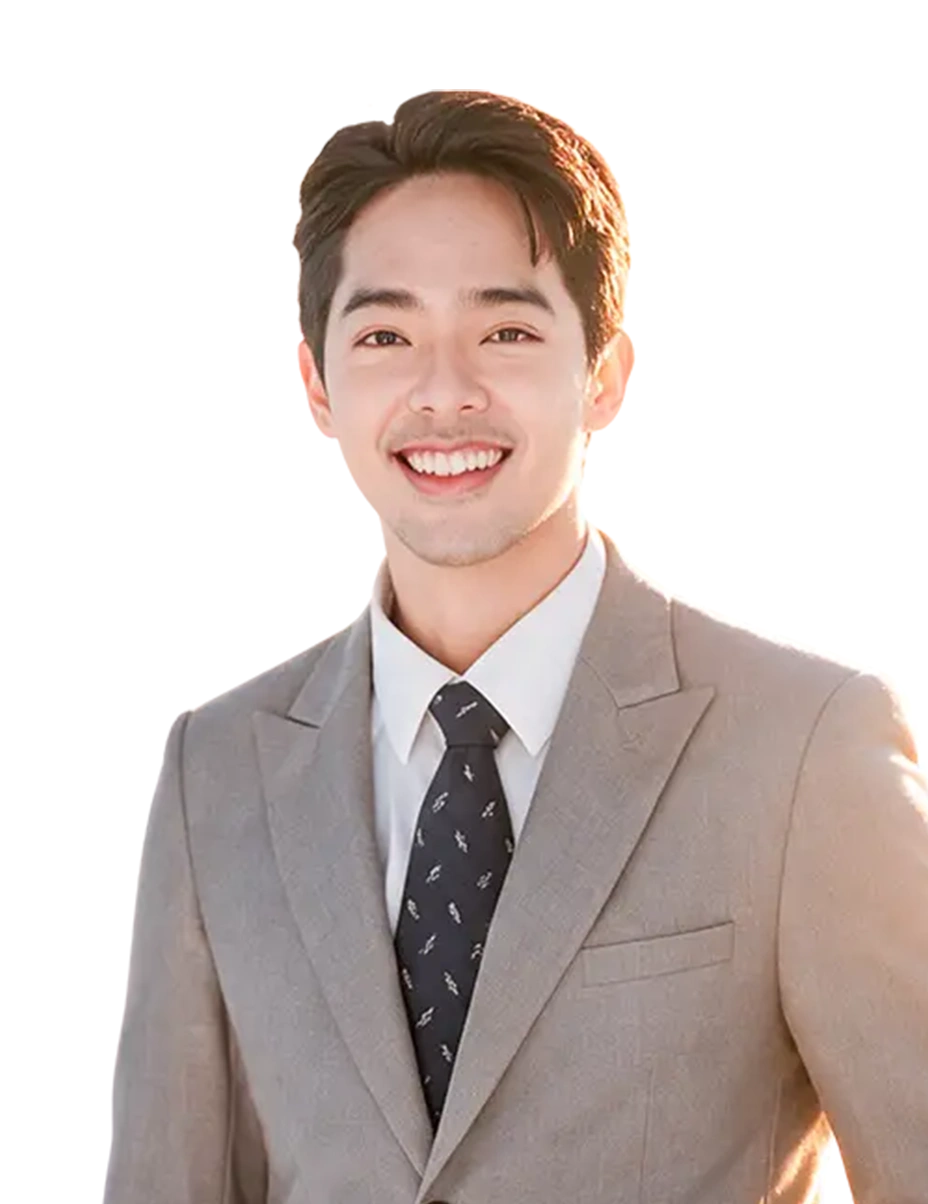
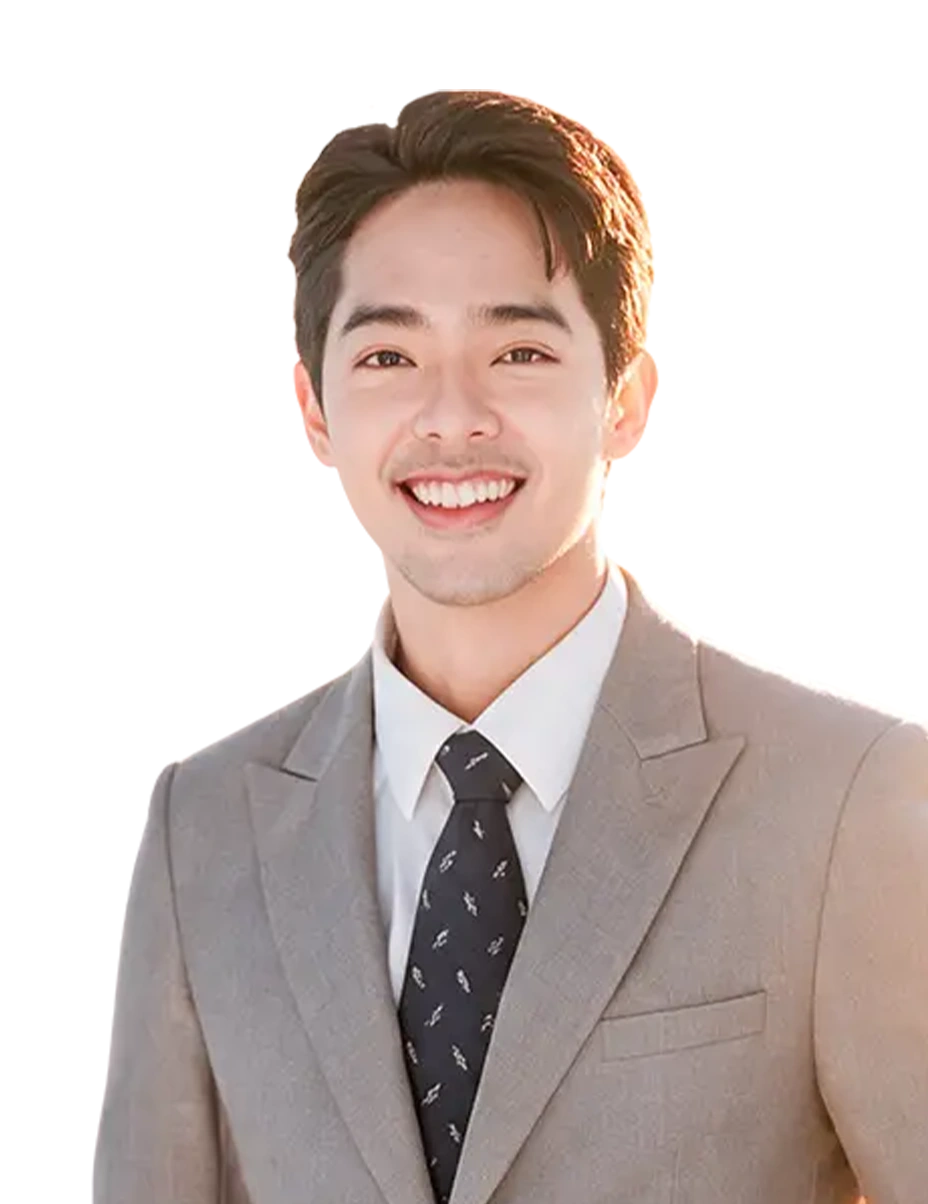
Master Class ticket labels use session names; ticket buttons wrap
- Master Class options: dates without "วันที่", R.R.R in capitals; buy
  button reads "ซื้อบัตร RADIANCE RIFT RUMBLE (R.R.R)" / "ซื้อบัตร VALUE
  MEETS MOMENTUM" once chosen
- Ticket buttons wrap to a second line instead of clipping long labels
- Updated 3D floor plan (2000x1456), hero speaker, og-image and an MC
  portrait; cache bust floor-plan-01 v2, hero-speaker v8, og-image v4

diff --git a/index.html b/index.html
@@ -20,7 +20,7 @@
     <meta property="og:description" content="BetterTrade 2026: New World New Playbook งานสัมมนาลงทุน 2 วันเต็ม 31 ต.ค. - 1 พ.ย. 2569 ณ สามย่านมิตรทาวน์ ฮอลล์ ชั้น 5 บัตรเริ่ม 150 บาท รวมทุกสินทรัพย์ หุ้น ทอง คริปโต">
     <meta property="og:url" content="https://www.efin.finance/events/better-trade/better-trade2026">
     <meta property="og:image:type" content="image/webp">
-    <meta property="og:image" content="./images/og-image.webp?v=3">
+    <meta property="og:image" content="./images/og-image.webp?v=4">
     <meta property="og:image:width" content="1200">
     <meta property="og:image:height" content="630">
     <meta property="og:image:alt" content="BetterTrade 2026: New World New Playbook | 31 ต.ค. - 1 พ.ย. 2569 | Samyan Mitrtown Hall">
@@ -28,7 +28,7 @@
     <meta name="twitter:card" content="summary_large_image">
     <meta name="twitter:title" content="BetterTrade 2026: New World New Playbook | 31 ต.ค. - 1 พ.ย. 2569 | Samyan Mitrtown Hall">
     <meta name="twitter:description" content="BetterTrade 2026: New World New Playbook งานสัมมนาลงทุน 2 วันเต็ม 31 ต.ค. - 1 พ.ย. 2569 ณ สามย่านมิตรทาวน์ ฮอลล์ ชั้น 5 บัตรเริ่ม 150 บาท รวมทุกสินทรัพย์ หุ้น ทอง คริปโต">
-    <meta name="twitter:image" content="./images/og-image.webp?v=3">
+    <meta name="twitter:image" content="./images/og-image.webp?v=4">
 
     <script type="application/ld+json">
     {
@@ -36,7 +36,7 @@
         "@type": "Event",
         "name": "BetterTrade 2026: New World New Playbook | 31 ต.ค. - 1 พ.ย. 2569 | Samyan Mitrtown Hall",
         "description": "BetterTrade 2026: New World New Playbook งานสัมมนาลงทุน 2 วันเต็ม 31 ต.ค. - 1 พ.ย. 2569 ณ สามย่านมิตรทาวน์ ฮอลล์ ชั้น 5 บัตรเริ่ม 150 บาท รวมทุกสินทรัพย์ หุ้น ทอง คริปโต",
-        "image": ["https://www.efin.finance/events/better-trade/better-trade2026/images/og-image.webp?v=3"],
+        "image": ["https://www.efin.finance/events/better-trade/better-trade2026/images/og-image.webp?v=4"],
         "startDate": "2026-10-31T09:00:00+07:00",
         "endDate": "2026-11-01T17:30:00+07:00",
         "eventStatus": "https://schema.org/EventScheduled",
@@ -74,7 +74,7 @@
     <link rel="stylesheet" href="fonts/fonts.css">
     <link rel="stylesheet" href="vendor/swiper/swiper-bundle.min.css">
     <link rel="stylesheet" href="css/main.css?v=61">
-    <link rel="stylesheet" href="css/style.css?v=1203">
+    <link rel="stylesheet" href="css/style.css?v=1204">
 </head>
 
 <body class="is-loading">
@@ -304,7 +304,7 @@
 
                 <div class="hero__visual col-12 col-lg-6 col-xl-7">
                     <figure class="hero__speakers">
-                        <img src="images/hero-speaker.webp?v=7" width="1080" height="1350"
+                        <img src="images/hero-speaker.webp?v=8" width="1080" height="1350"
                             alt="วิทยากรในงาน BetterTrade 2026 — 30+ Speakers, 20+ Sessions, 2 Days" fetchpriority="high">
                     </figure>
                 </div>
@@ -362,13 +362,13 @@
                 </header>
 
                 <div class="ticket__prices" role="radiogroup" aria-label="เลือกบัตร Master Class">
-                    <button class="ticket__price" type="button" role="radio" aria-checked="false" data-ticket-option data-ticket-label="ซื้อบัตร Master Class 31 ต.ค. 490 บาท">
-                        <span class="ticket__price-day">วันที่ 31 ต.ค. 2569</span>
+                    <button class="ticket__price" type="button" role="radio" aria-checked="false" data-ticket-option data-ticket-label="ซื้อบัตร RADIANCE RIFT RUMBLE (R.R.R)">
+                        <span class="ticket__price-day">31 ต.ค. 2569</span>
                         <strong>490 <small>บาท</small></strong>
-                        <small class="ticket__price-note">Radiance Rift Rumble (R.R.R)</small>
+                        <small class="ticket__price-note">RADIANCE RIFT RUMBLE (R.R.R)</small>
                     </button>
-                    <button class="ticket__price" type="button" role="radio" aria-checked="false" data-ticket-option data-ticket-label="ซื้อบัตร Master Class 1 พ.ย. 790 บาท">
-                        <span class="ticket__price-day">วันที่ 1 พ.ย. 2569</span>
+                    <button class="ticket__price" type="button" role="radio" aria-checked="false" data-ticket-option data-ticket-label="ซื้อบัตร VALUE MEETS MOMENTUM">
+                        <span class="ticket__price-day">1 พ.ย. 2569</span>
                         <strong>790 <small>บาท</small></strong>
                         <small class="ticket__price-note">VALUE MEETS MOMENTUM</small>
                     </button>
@@ -1757,7 +1757,7 @@
                          เส้นอยู่ในพื้นว่างรอบแผนผัง ไม่ทับตัวแผนผัง -->
                     <figure class="floor-plan__overview">
                         <div class="floor-plan__overview-visual">
-                            <img class="floor-plan__overview-image" src="images/floor-plan-01.webp" width="1440" height="1141"
+                            <img class="floor-plan__overview-image" src="images/floor-plan-01.webp?v=2" width="2000" height="1456"
                                 loading="lazy" decoding="async"
                                 alt="ภาพรวม 3D ของพื้นที่งาน BetterTrade 2026: Conference, Pavilions และ Experience Zone">
                             <svg class="floor-plan__callouts" viewBox="0 0 1440 1141" aria-hidden="true">

diff --git a/personalized-playbook.html b/personalized-playbook.html
@@ -20,7 +20,7 @@
     <meta property="og:description" content="PERSONALIZED PLAYBOOK คู่มือลงทุนที่ถอดจากตัวคุณเอง เริ่มด้วยแบบทดสอบ Investor DNA 7 ข้อ ฟรี ใน 2 นาที">
     <meta property="og:url" content="https://www.efin.finance/events/better-trade/better-trade2026/personalized-playbook">
     <meta property="og:image:type" content="image/webp">
-    <meta property="og:image" content="./images/og-image.webp?v=3">
+    <meta property="og:image" content="./images/og-image.webp?v=4">
     <meta property="og:image:width" content="1200">
     <meta property="og:image:height" content="630">
     <meta property="og:image:alt" content="PERSONALIZED PLAYBOOK | BetterTrade 2026: New World New Playbook">
@@ -28,7 +28,7 @@
     <meta name="twitter:card" content="summary_large_image">
     <meta name="twitter:title" content="ไม่มี Playbook เล่มไหนเหมาะกับคุณเท่าเล่มที่คุณสร้างเอง">
     <meta name="twitter:description" content="PERSONALIZED PLAYBOOK คู่มือลงทุนที่ถอดจากตัวคุณเอง เริ่มด้วยแบบทดสอบ Investor DNA 7 ข้อ ฟรี ใน 2 นาที">
-    <meta name="twitter:image" content="./images/og-image.webp?v=3">
+    <meta name="twitter:image" content="./images/og-image.webp?v=4">
 
     <!-- ฉากพื้นหลังเป็น CSS background จึงถูกค้นพบช้ากว่า img ปกติ ต้องบอกให้โหลดก่อน -->
     <link rel="preload" as="image" href="images/playbook-bg.webp" fetchpriority="high" media="(min-width: 576px)">
@@ -44,7 +44,7 @@
     <link rel="stylesheet" href="vendor/bootstrap/css/bootstrap.min.css">
     <link rel="stylesheet" href="fonts/fonts.css">
     <link rel="stylesheet" href="css/main.css?v=61">
-    <link rel="stylesheet" href="css/style.css?v=1203">
+    <link rel="stylesheet" href="css/style.css?v=1204">
 </head>
 
 <body class="playbook-page">

diff --git a/css/style.css b/css/style.css
@@ -4268,6 +4268,13 @@ body.menu-open .site-header__backdrop {
         width: 100%;
         margin: var(--space-6) 0 0;
 
+        /* ป้ายปุ่มที่ยาวเกินกว้างปุ่ม (เช่นชื่อ session ของ Master Class) ขึ้นบรรทัดใหม่แทนการถูกตัด
+           ป้ายสั้นยังเป็นบรรทัดเดียวสูงเท่าเดิม */
+        padding-block: var(--space-2);
+        line-height: var(--section-small-line-height);
+        white-space: normal;
+        text-wrap: balance;
+
         /* ปุ่ม Ultimate ใช้สีดำล้วน ไม่มีขอบ spectrum */
         &.bt-action-button--primary {
             border-color: var(--bt-action-fill);
